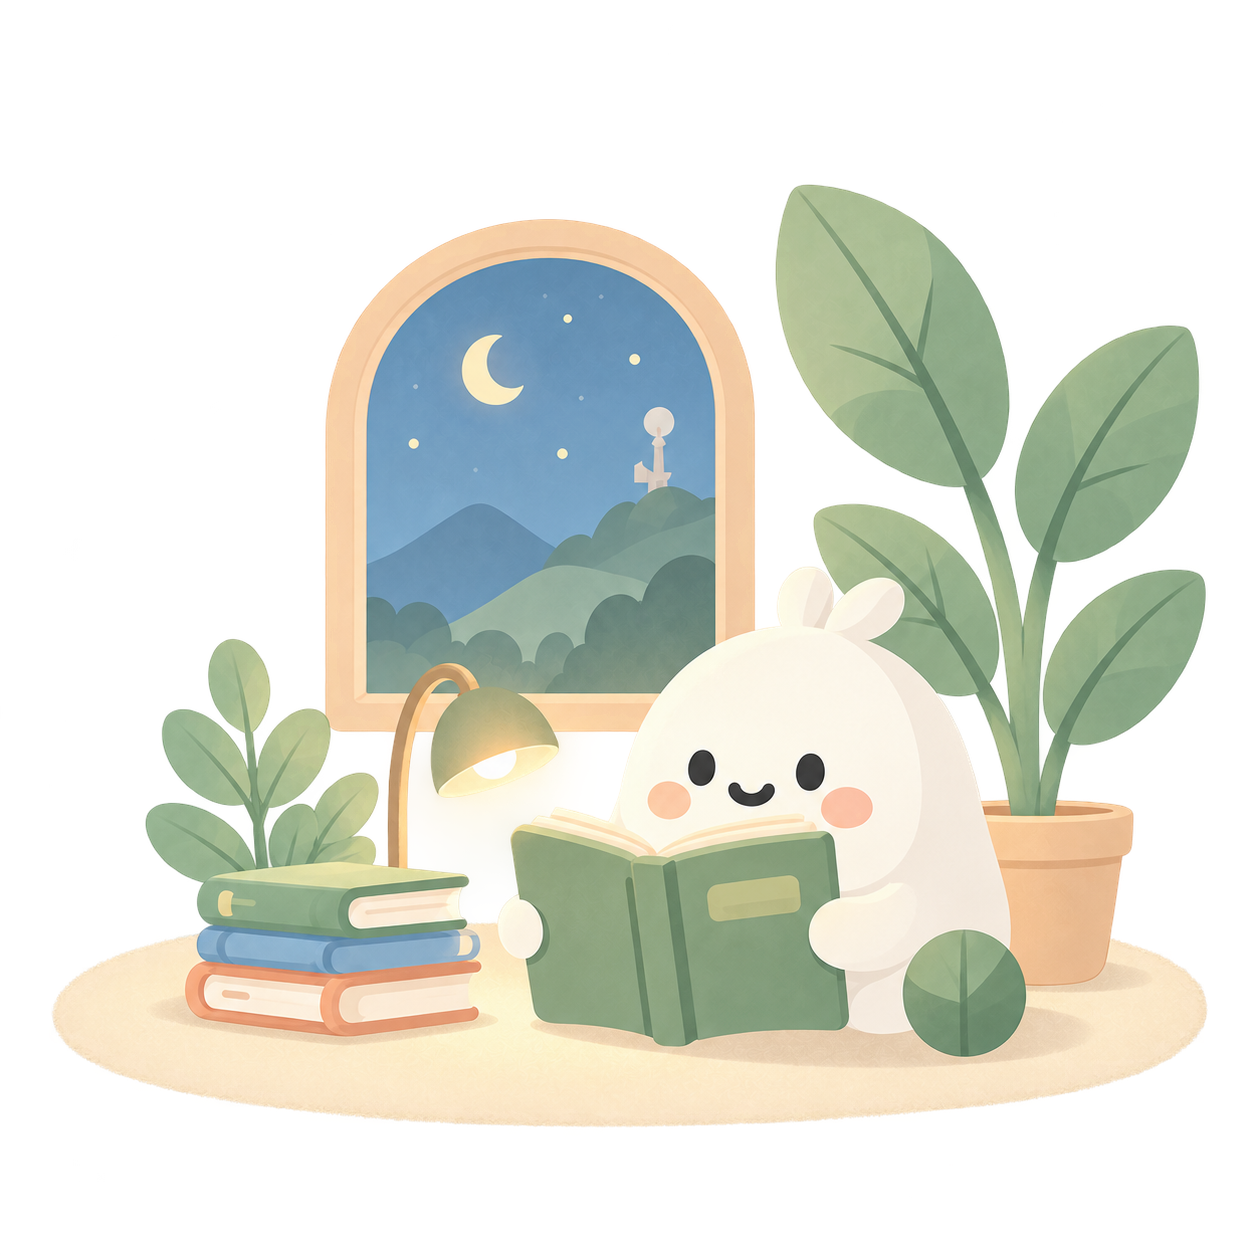
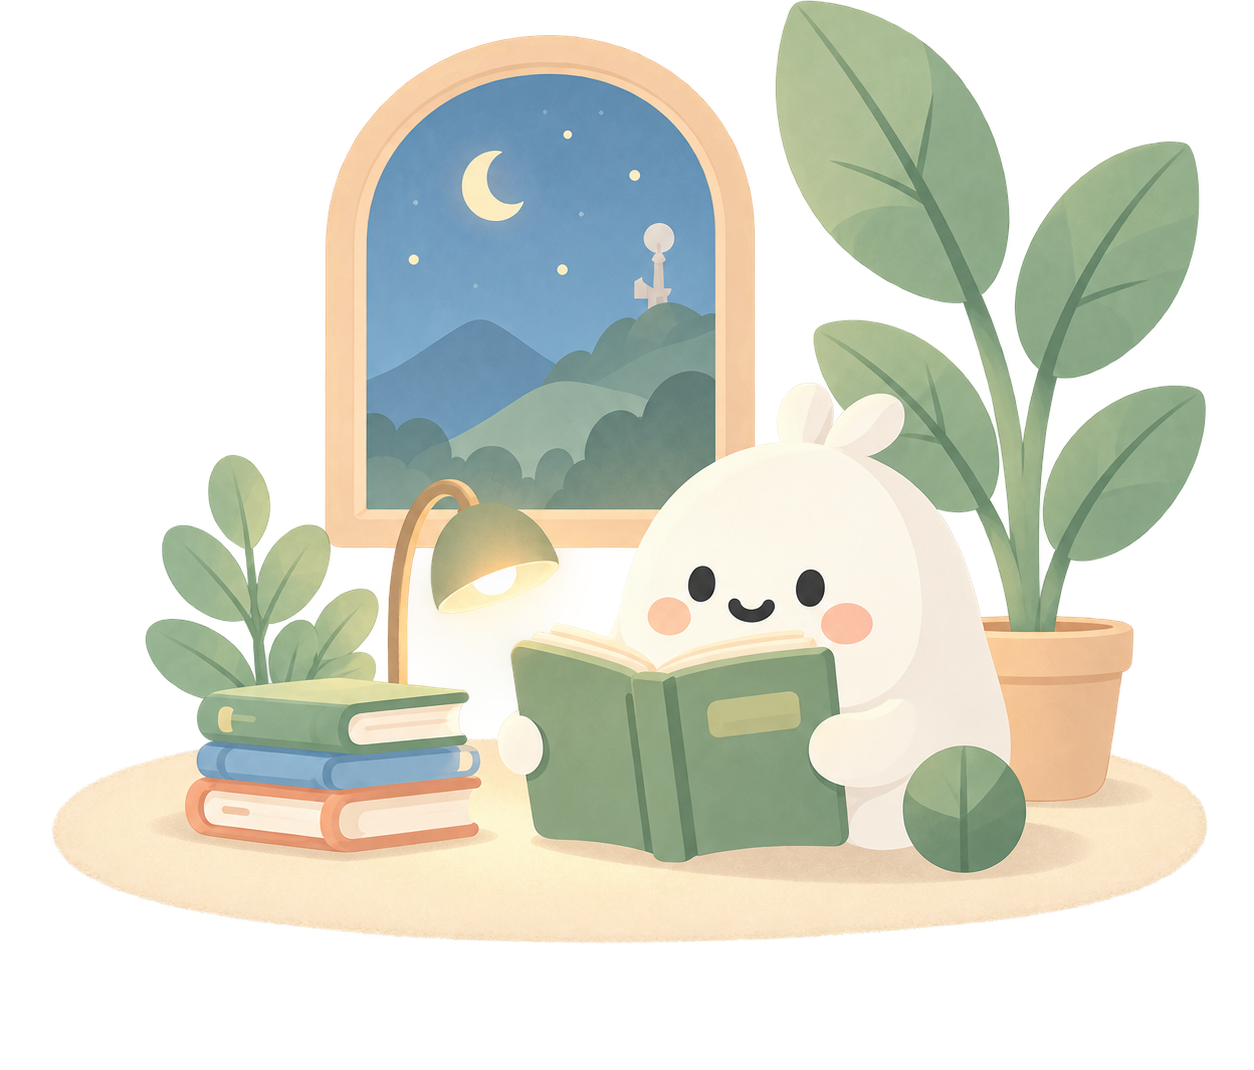
fix(library): crop the hero art so the picture sits under the bar
A sixth of the illustration's height was empty space above the drawing, which read as spacing no
rule could reach: the gap the learner sees under the bar was the file, not the page rail. Both
assets are cropped to the drawing, the art keeps its new proportion, and the hero's heights follow
it, so the picture rises while its distance to Create a new story is unchanged.

Claude-Session: https://claude.ai/code/session_015yTs61ZCrDJ58qF9CzdUK5

diff --git a/web/src/app/features/library/library-page.component.ts b/web/src/app/features/library/library-page.component.ts
@@ -103,14 +103,14 @@ export const FILTER_VISIBILITY_THRESHOLD = 8;
               src="assets/home-reader.png"
               alt=""
               width="1254"
-              height="1254"
+              height="1070"
             />
             <img
               class="hero-art-dark"
               src="assets/home-reader-dark.png"
               alt=""
               width="1254"
-              height="1254"
+              height="1070"
             />
           </div>
         </section>
@@ -203,17 +203,19 @@ export const FILTER_VISIBILITY_THRESHOLD = 8;
      * centred in it too, rather than both hanging from the top edge and
      * drifting apart as the sentence grows a line.
      *
-     * The hero pulls in at both edges rather than the page rail closing up:
-     * the picture sits nearer the bar above it than the page's own rhythm
-     * would place it, while the action below keeps the rail's full gap.
+     * The hero hugs the illustration: its heights are the art's width in the
+     * art's own proportion, so the distance to the bar above is the page rail
+     * and nothing else. The art carried a sixth of its height as empty space
+     * above the drawing, which read as spacing no rule could reach; the file
+     * is cropped to the drawing instead.
      */
     .home-hero {
       position: relative;
       isolation: isolate;
       display: flex;
       align-items: center;
-      min-height: 15rem;
-      margin-block: calc(var(--space-1) * -1) calc(var(--space-2) * -1);
+      min-height: 12.8rem;
+      margin-block: var(--space-2) calc(var(--space-2) * -1);
       padding-block: 0 var(--space-2);
     }
 
@@ -226,7 +228,7 @@ export const FILTER_VISIBILITY_THRESHOLD = 8;
       width: 55%;
       max-width: 16rem;
       height: auto;
-      aspect-ratio: 1;
+      aspect-ratio: 1254 / 1070;
       overflow: hidden;
       pointer-events: none;
     }
@@ -270,7 +272,7 @@ export const FILTER_VISIBILITY_THRESHOLD = 8;
      * screen. The art keeps its proportions; only its size changes.
      */
     .home-hero.is-compact {
-      min-height: 9rem;
+      min-height: 7.7rem;
     }
 
     .home-hero.is-compact .hero-art {
@@ -303,7 +305,7 @@ export const FILTER_VISIBILITY_THRESHOLD = 8;
 
     @media (max-width: breakpoints.$wide-max) {
       .home-hero {
-        min-height: 12.5rem;
+        min-height: 10.7rem;
       }
 
       .home-hero mn-library-standing {

diff --git a/docs/design-system.md b/docs/design-system.md
@@ -104,8 +104,10 @@ focus.
 The home illustration blends into the canvas through an organic crop; the hero
 is not a card and therefore has no panel boundary or elevation.
 The crop follows the illustration's arch and low foreground, preserving the
-whole reading character and books. Its proportions stay fixed as the column
-changes width. Once the shelf holds a story the hero steps down to a compact
+whole reading character and books. The asset is cropped to the drawing itself,
+so the hero's frame is the picture rather than the empty space around it and
+the distance to the bar above is the page rail and nothing else. Its
+proportions stay fixed as the column changes width. Once the shelf holds a story the hero steps down to a compact
 size, so the stories come up the screen; only its size changes, never its crop.
 The home headline is tightly set beside it, centred on the
 illustration's own axis so the two read as one composition rather than a
